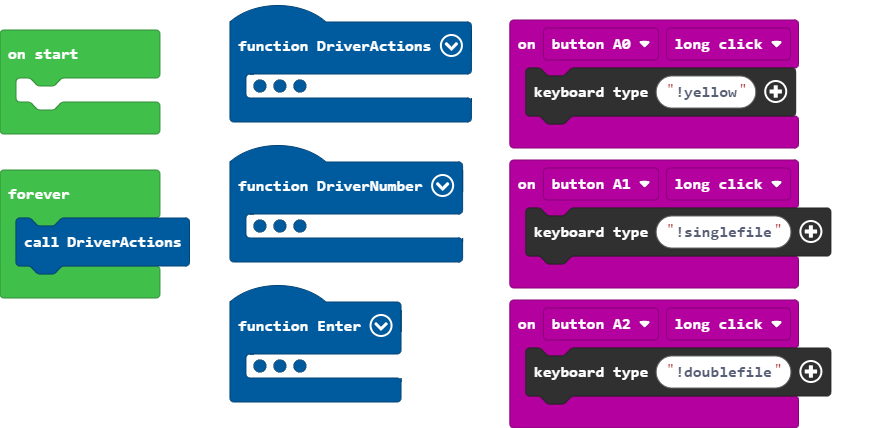
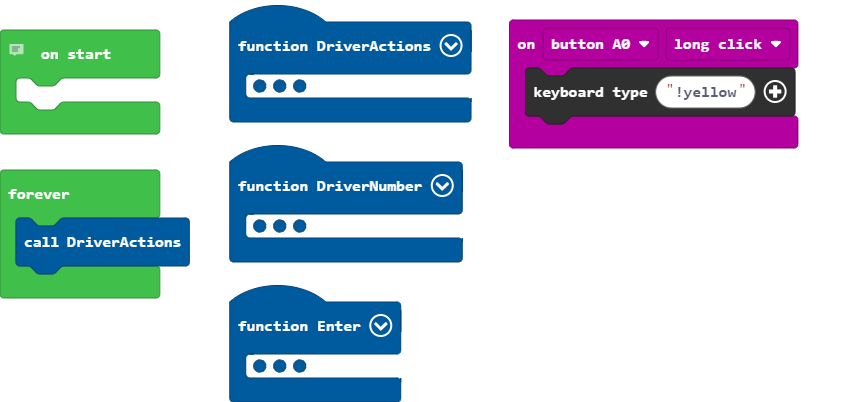
Update main.blocks, main.ts

diff --git a/main.ts b/main.ts
@@ -2,14 +2,8 @@ function Enter () {
     keyboard.type("$")
     keyboard.key("enter", KeyboardKeyEvent.Press)
 }
-input.buttonA1.onEvent(ButtonEvent.LongClick, function () {
-    keyboard.type("!singlefile")
-})
 input.buttonA0.onEvent(ButtonEvent.LongClick, function () {
     keyboard.type("!yellow")
-})
-input.buttonA2.onEvent(ButtonEvent.LongClick, function () {
-    keyboard.type("!doublefile")
 })
 // Generates Driver Number
 function DriverNumber () {
@@ -72,6 +66,7 @@ function DriverActions () {
         Enter()
     }
 }
+// Simulator does not show because of the amount of inputs
 forever(function () {
     DriverActions()
 })
